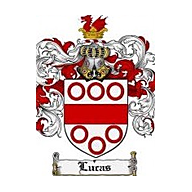
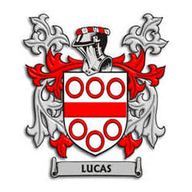
Lucas crest, added tests

diff --git a/tests/test-app.js b/tests/test-app.js
@@ -1,0 +1,216 @@
+// Logic tests for the Lucas Golf Day app. Runs the real index.html in a simulated
+// browser (jsdom) in demo mode, with the Firebase scripts and network stubbed out.
+//
+// Usage:  npm install && npm test            (tests ../index.html)
+//         node test-app.js path/to/index.html
+const { JSDOM } = require('jsdom');
+const fs = require('fs');
+const path = require('path');
+
+const file = path.resolve(process.argv[2] || path.join(__dirname, '..', 'index.html'));
+const html = fs.readFileSync(file, 'utf8').replace(/<script src="https:[^>]*><\/script>/g, '');
+
+let pass = 0, fail = 0;
+const check = (cond, msg) => { if (cond) { pass++; console.log('  PASS ' + msg); } else { fail++; console.log('  FAIL ' + msg); } };
+const section = (t) => console.log('\n' + t);
+
+function boot(me, opts) {
+  opts = opts || {};
+  const dom = new JSDOM(html, {
+    runScripts: 'dangerously', url: 'https://test.local/', pretendToBeVisual: true,
+    beforeParse(w) {
+      if (me) w.localStorage.setItem('golf.me', me);
+      if (opts.storage) Object.keys(opts.storage).forEach((k) => w.localStorage.setItem(k, opts.storage[k]));
+      w.fetch = () => (opts.wx ? Promise.resolve({ json: () => Promise.resolve(opts.wx) }) : new Promise(() => {}));
+    }
+  });
+  const w = dom.window, d = w.document;
+  const click = (sel) => { const e = d.querySelector(sel); if (!e) throw new Error('missing ' + sel); e.dispatchEvent(new w.MouseEvent('click', { bubbles: true })); };
+  const change = (sel) => { d.querySelector(sel).dispatchEvent(new w.Event('change', { bubbles: true })); };
+  const has = (sel) => !!d.querySelector(sel);
+  const text = (sel) => (d.querySelector(sel) ? d.querySelector(sel).textContent.replace(/\s+/g, ' ').trim() : '');
+  return { dom, w, d, click, change, has, text };
+}
+const wait = (ms) => new Promise((r) => setTimeout(r, ms));
+
+async function run() {
+  // ---------- 1. Start-up ----------
+  section('1. Start-up');
+  {
+    const a = boot('Jacob'); await wait(50);
+    check(a.text('h1') === 'Lucas Golf Day 2026', 'title is Lucas Golf Day 2026');
+    check(/Demo mode/.test(a.text('#statusText')), 'demo mode shown without Firebase config (' + a.text('#statusText') + ')');
+    check(a.d.querySelectorAll('.brow').length === 3, 'leaderboard lists 3 teams');
+    check(/Course.*To be confirmed/.test(a.text('.info')), 'course shows To be confirmed');
+    check(a.has('.dateline'), 'date line present');
+    const n = boot(null); await wait(50);
+    check(n.has('.scrim'), 'new visitor is asked to pick a name');
+  }
+
+  // ---------- 2. Weather ----------
+  section('2. Weather line');
+  {
+    const a = boot('Jacob', { wx: { current: { temperature_2m: 27.4, weather_code: 1, wind_speed_10m: 14.2 } } }); await wait(100);
+    const t = a.text('#wx');
+    check(/Perth WA/.test(t) && /27/.test(t) && /14 km\/h/.test(t) && /Partly cloudy/.test(t), 'shows Perth WA conditions: ' + t);
+    const b = boot('Jacob'); await wait(50);
+    check(/Perth WA weather loading/.test(b.text('#wx')), 'shows loading text while waiting: ' + b.text('#wx'));
+  }
+
+  // ---------- 3. Access control ----------
+  section('3. Access control');
+  {
+    const k = boot('Ken'); await wait(50);
+    check(k.d.querySelector('#btnSettings').classList.contains('hidden'), 'Setup button hidden for Ken');
+    k.d.querySelector('#btnSettings').dispatchEvent(new k.w.MouseEvent('click', { bubbles: true }));
+    check(!k.has('#fCourse'), 'Setup does not open for Ken');
+    const j = boot('Jacob'); await wait(50);
+    check(!j.d.querySelector('#btnSettings').classList.contains('hidden'), 'Setup button visible for Jacob');
+  }
+
+  // ---------- 4. Captain and read-only scorecards ----------
+  section('4. Captains and read-only cards');
+  {
+    const j = boot('Jacob'); await wait(50);
+    j.click('#tabCards');
+    j.click('[data-act=cardteam][data-team=A]');
+    check(j.d.querySelectorAll('tr.edit').length === 0, 'Jacob cannot edit Team A');
+    check(/View only/.test(j.text('.who-line')), 'Team A shows View only');
+    j.click('[data-act=cardteam][data-team=B]');
+    check(j.d.querySelectorAll('tr.edit').length === 9, 'Jacob can edit all 9 holes of Team B');
+    const k = boot('Ken'); await wait(50);
+    k.click('#tabCards'); k.click('[data-act=cardteam][data-team=C]');
+    check(k.d.querySelectorAll('tr.edit').length === 9, 'Ken can edit Team C');
+    k.click('[data-act=cardteam][data-team=B]');
+    check(k.d.querySelectorAll('tr.edit').length === 0, 'Ken cannot edit Team B');
+    const a = boot('Adam'); await wait(50);
+    a.click('#tabCards');
+    check(['A', 'B', 'C'].every((t) => { a.click('[data-act=cardteam][data-team=' + t + ']'); return a.d.querySelectorAll('tr.edit').length === 0; }), 'Adam is view only on every team');
+  }
+
+  // ---------- 5. Entering scores, tee choice, drives, mulligans ----------
+  section('5. Scoring');
+  {
+    const j = boot('Jacob'); await wait(50);
+    j.click('#tabCards'); j.click('[data-act=cardteam][data-team=B]');
+    j.click('tr[data-hole="1"]');
+    check(j.text('.sheet h2') === 'Team B, hole 1', 'hole editor opens for hole 1');
+    j.click('[data-act=sinc]'); j.click('[data-act=sinc]');
+    check(j.text('#sval') === '6', 'stepper moves par 4 up to 6');
+    j.click('[data-act=settee][data-v=b]');
+    j.click('[data-act=setdrive][data-name=Stu]');
+    j.click('[data-act=minc]'); j.click('[data-act=minc]');
+    check(j.text('#mval') === '2', 'two mulligans recorded');
+    j.click('[data-act=savehole]');
+    const row = j.d.querySelector('tr[data-hole="1"]');
+    check(/6/.test(row.querySelector('.sc').textContent), 'hole 1 score saved as 6');
+    check(/Back -1/.test(row.textContent) && /Stu/.test(row.textContent), 'tee choice and drive shown on the card');
+    check(/used on hole 1/.test(j.text('.tally')), 'tally shows tee choice used on hole 1');
+    check(/Stu 1\/3/.test(j.text('.tally')), 'tally shows Stu 1/3 drives');
+    check(/Mulligans left: 1 of 3/.test(j.text('.tally')), 'tally shows 1 of 3 mulligans left (' + j.text('.tally') + ')');
+
+    j.click('tr[data-hole="2"]');
+    check(j.d.querySelector('[data-act=settee][data-v=f]').disabled && j.d.querySelector('[data-act=settee][data-v=b]').disabled, 'tee choice locked on hole 2 after use');
+    check(!j.d.querySelector('[data-act=settee][data-v=w]').disabled, 'white tees still selectable');
+    j.click('[data-act=minc]');
+    check(j.text('#mval') === '1', 'one more mulligan allowed');
+    j.click('[data-act=minc]');
+    check(j.text('#mval') === '1', 'mulligans stop at the team limit');
+    j.click('[data-act=close]');
+
+    // Leaderboard: adjusted 5 vs par 4 = +1 gross; allowance 6 x 1/9 rounds to 1; net 0 = E
+    j.click('#tabBoard');
+    const b = j.d.querySelector('.brow[data-team=B]');
+    const nums = b.querySelectorAll('.num');
+    check(nums[0].textContent === 'E' && nums[1].textContent === '+1', 'leaderboard Team B net E, gross +1 (' + nums[0].textContent + ', ' + nums[1].textContent + ')');
+    check(b.querySelector('.thru').textContent === '1', 'thru shows 1');
+    check(j.d.querySelector('.brow').getAttribute('data-team') === 'B', 'Team B leads the board');
+
+    // Clear hole
+    j.click('#tabCards'); j.click('tr[data-hole="1"]'); j.click('[data-act=clearhole]');
+    check(!/6/.test(j.d.querySelector('tr[data-hole="1"] .sc').textContent), 'clearing a hole removes the score');
+  }
+
+  // ---------- 6. Setup: course, balance, overrides, validation ----------
+  section('6. Setup');
+  {
+    const j = boot('Jacob'); await wait(50);
+    j.click('#btnSettings');
+    check(j.has('#fCourse'), 'Setup opens for Jacob');
+    check(j.d.querySelectorAll('.prow:not(.phead)').length === 9, 'nine player rows');
+    check(/6 shots/.test(j.text('#tmAA')) && /6 shots/.test(j.text('#tmAB')) && /8 shots/.test(j.text('#tmAC')), 'automatic allowances are 6, 6 and 8');
+
+    j.d.querySelector('#fCourse').value = 'Test Golf Club';
+    ['A', 'B', 'C'].forEach((t, i) => { j.d.querySelector('#fTee' + t).value = (8 + i) + ':00 am'; });
+    [4, 4, 3, 5, 4, 4, 3, 4, 5].forEach((p, i) => { j.d.querySelector('#fPar' + i).value = String(p); });
+
+    // Balance from an unfair split, nothing locked
+    const hs = [6, 15, 25, 25, 30, 54, 54, 54, 25];
+    const tm = ['A', 'A', 'A', 'B', 'B', 'B', 'C', 'C', 'C'];
+    for (let i = 0; i < 9; i++) { j.d.querySelector('#pH' + i).value = String(hs[i]); j.d.querySelector('#pT' + i).value = tm[i]; j.d.querySelector('#pL' + i).checked = false; }
+    j.change('#pT0');
+    const rangeOf = () => { const v = ['A', 'B', 'C'].map((t) => parseInt((j.text('#tmA' + t).match(/(\d+) shots/) || [0, 0])[1], 10)); return Math.max.apply(null, v) - Math.min.apply(null, v); };
+    const before = rangeOf();
+    j.click('[data-act=balance]');
+    const after = rangeOf();
+    const sizes = { A: 0, B: 0, C: 0 };
+    for (let i = 0; i < 9; i++) sizes[j.d.querySelector('#pT' + i).value]++;
+    check(sizes.A === 3 && sizes.B === 3 && sizes.C === 3, 'balance gives 3 players per team');
+    check(after < before, 'balance narrows the allowance gap (' + before + ' shots to ' + after + ')');
+
+    // Lock Matt+Lachie and Stu+Jett back to the real line-up, then balance
+    const names = ['Michael', 'Matt', 'Lachie', 'Jacob', 'Stu', 'Jett', 'Ken', 'Adam', 'Ron'];
+    const real = [6, 30, 54, 15, 25, 54, 25, 25, 54], realT = ['A', 'A', 'A', 'B', 'B', 'B', 'C', 'C', 'C'];
+    for (let i = 0; i < 9; i++) { j.d.querySelector('#pN' + i).value = names[i]; j.d.querySelector('#pH' + i).value = String(real[i]); j.d.querySelector('#pT' + i).value = realT[i]; j.d.querySelector('#pL' + i).checked = false; }
+    ['Matt', 'Lachie', 'Stu', 'Jett'].forEach((n) => { j.d.querySelector('#pL' + names.indexOf(n)).checked = true; });
+    j.change('#pT0');
+    j.d.querySelector('#pT' + names.indexOf('Michael')).value = 'C';  // push Michael away from his pair, balance should handle it
+    j.click('[data-act=balance]');
+    const tOf = (n) => j.d.querySelector('#pT' + names.indexOf(n)).value;
+    check(tOf('Matt') === tOf('Lachie'), 'locked pair Matt and Lachie stay together');
+    check(tOf('Stu') === tOf('Jett'), 'locked pair Stu and Jett stay together');
+
+    // Manual override and save
+    j.d.querySelector('#fAllowC').value = '10'; j.change('#fAllowC');
+    j.click('[data-act=savesetup]');
+    check(!j.has('#fCourse'), 'valid setup saves and closes');
+    check(/Test Golf Club/.test(j.text('.info')) && /8:00 am/.test(j.text('.info')), 'details card shows saved course and tee times');
+    j.click('[data-act=rules]');
+    check(/C: 10/.test(j.text('.rules')), 'rules show overridden Team C allowance of 10');
+    j.click('[data-act=close]');
+
+    // Validation
+    j.click('#btnSettings');
+    j.d.querySelector('#pT0').value = 'B'; j.change('#pT0');
+    j.click('[data-act=savesetup]');
+    check(j.has('#fCourse') && /exactly 3/.test(j.text('#toast')), 'save blocked when a team has the wrong size');
+    j.click('[data-act=close]');
+    j.click('#btnSettings');
+    j.d.querySelector('#pN3').value = 'Someone'; j.d.querySelector('#pN3').dispatchEvent(new j.w.Event('change', { bubbles: true }));
+    const jacobRow = names.indexOf('Jacob');
+    j.d.querySelector('#pN' + jacobRow).value = 'Jake';
+    j.click('[data-act=savesetup]');
+    check(j.has('#fCourse') && /Keep Jacob/.test(j.text('#toast')), 'cannot remove Jacob from the player list (' + j.text('#toast') + ')');
+    j.click('[data-act=close]');
+    j.click('#btnSettings');
+    j.d.querySelector('#pH1').value = '99';
+    j.click('[data-act=savesetup]');
+    check(j.has('#fCourse') && /0 to 54/.test(j.text('#toast')), 'handicap above 54 is rejected');
+  }
+
+  // ---------- 7. Rules sheet ----------
+  section('7. Rules sheet');
+  {
+    const a = boot('Adam'); await wait(50);
+    a.click('[data-act=rules]');
+    const r = a.text('.rules');
+    check(/Lachie and Jett get 3 free do-overs each/.test(r), 'mulligan rule names Lachie and Jett');
+    check(/A: 6, B: 6, C: 8/.test(r), 'allowances listed as A: 6, B: 6, C: 8');
+    check(/white tees/i.test(r) && /Tiebreaker/.test(r), 'tees and tiebreaker rules present');
+    check(!/side prize/i.test(r), 'no side prizes');
+  }
+
+  console.log('\n' + pass + ' passed, ' + fail + ' failed');
+  process.exit(fail ? 1 : 0);
+}
+run().catch((e) => { console.error('Test run crashed:', e); process.exit(2); });

diff --git a/index.html b/index.html
@@ -9,6 +9,10 @@
 <meta name="apple-mobile-web-app-title" content="Lucas Golf Day">
 <meta name="apple-mobile-web-app-status-bar-style" content="black-translucent">
 <link rel="manifest" href="manifest.webmanifest">
+<link rel="icon" type="image/png" sizes="32x32" href="favicon-32.png">
+<link rel="icon" type="image/png" sizes="48x48" href="favicon-48.png">
+<link rel="icon" type="image/png" sizes="192x192" href="icon-192.png">
+<link rel="icon" type="image/png" sizes="512x512" href="icon-512.png">
 <link rel="apple-touch-icon" href="icon-192.png">
 <title>Lucas Golf Day 2026</title>
 <style>
@@ -29,7 +33,9 @@ button{font:inherit;color:inherit;cursor:pointer}
 
 /* Header */
 header{background:var(--board);color:#fff;padding:12px 16px 12px;position:sticky;top:0;z-index:5;border-bottom:4px solid var(--gold)}
-.hrow{display:flex;align-items:center;gap:8px}
+.hrow{display:flex;align-items:center;gap:12px}
+.crest{width:56px;height:56px;flex:none;object-fit:contain;background:#fff;border-radius:12px;padding:3px;border:2px solid var(--gold);box-shadow:0 2px 6px rgba(0,0,0,.35)}
+@media (max-width:400px){.crest{width:48px;height:48px}.title h1{font-size:23px}}
 .title{flex:1;min-width:0}
 .title h1{margin:0;font:italic 400 27px/1.1 var(--serif);letter-spacing:.3px}
 .dateline{margin:8px 0 0;font-size:14px;color:#f7e7a0;display:flex;flex-wrap:wrap;gap:2px 14px}
@@ -161,6 +167,7 @@ input[type=text],select,input[type=number]{width:100%;padding:11px;border:1px so
 
 <header>
   <div class="hrow">
+    <img class="crest" src="icon-192.png" alt="Lucas family crest" width="56" height="56">
     <div class="title">
       <h1>Lucas Golf Day 2026</h1>
     </div>
@@ -199,12 +206,10 @@ input[type=text],select,input[type=number]{width:100%;padding:11px;border:1px so
 // Paste your Firebase web app config here (see README). Until then the app
 // runs in demo mode and keeps data on this device only.
 const FIREBASE_CONFIG = {
-  apiKey: "AIzaSyD4jI45tVLFn71t9YlkdlfijX40HRFV13U",
-  authDomain: "lucas-golf-day.firebaseapp.com",
-  projectId: "lucas-golf-day",
-  storageBucket: "lucas-golf-day.firebasestorage.app",
-  messagingSenderId: "476398886062",
-  appId: "1:476398886062:web:9eb3ebbdc658238c35e13f"
+  apiKey: "YOUR_API_KEY",
+  authDomain: "YOUR_PROJECT_ID.firebaseapp.com",
+  projectId: "YOUR_PROJECT_ID",
+  appId: "YOUR_APP_ID"
 };
 const ROUND_DOC = "rounds/dec28";
 

diff --git a/sw.js b/sw.js
@@ -1,5 +1,5 @@
 // Bump CACHE when you change any app file so phones pick up the update.
-const CACHE = 'golf-day-v10';
+const CACHE = 'golf-day-v12';
 const SHELL = ['./', './index.html', './manifest.webmanifest', './icon-192.png', './icon-512.png', './icon-maskable-512.png'];
 
 self.addEventListener('install', (e) => {

diff --git a/tests/LIVE-TEST-PLAN.md b/tests/LIVE-TEST-PLAN.md
@@ -1,0 +1,34 @@
+# Lucas Golf Day: live test plan
+
+Site: https://jacob-lucas.github.io/lucas-golf-day/
+
+Run this on two phones, or one phone and a laptop. Before the day, clear test scores by deleting the `dec28` document in the `rounds` collection in the Firebase console, then re-enter the course in Setup.
+
+## A. Deployment
+1. Open the site. The pill under the title says **Live** (not Demo mode).
+2. The weather line shows Perth WA with temperature and wind.
+3. Add to Home Screen. The crest icon appears and the app opens full screen.
+
+## B. Setup (Jacob only)
+4. Pick **Jacob**. A Setup button appears. Pick **Adam** on the other device: no Setup button.
+5. In Setup enter course name, tee times and pars. Save.
+6. The other device shows the course and tee times within a few seconds.
+7. Setup: press **Balance teams**, check each team has 3 players. Lock a pair, balance again, check the pair stays together. Cancel without saving.
+8. Setup: type an allowance override for one team, save, and check it appears in the Rules.
+
+## C. Scoring
+9. As each captain (Michael for A, Jacob for B, Ken for C), score hole 1 on their own team. Other devices update.
+10. As a non-captain, open that team's card: it says View only and holes cannot be edited.
+11. Use the tee choice once. On the next hole the forward and back options are disabled.
+12. Record drives. The drive count chips update.
+13. Record mulligans for Lachie or Jett. The count stops at the limit.
+14. The leaderboard order, net, gross and thru columns match the cards.
+15. Clear a hole. The score disappears everywhere.
+
+## D. Offline
+16. Put one device in airplane mode. Score a hole as captain. The pill says Offline.
+17. Turn signal back on. The pill returns to Live and the other device gets the score.
+
+## E. Finish
+18. Score all 9 holes for one team. Thru shows F, and the card shows the final net.
+19. Delete the test data (see top), reopen the app, and confirm the leaderboard is empty.

diff --git a/README.md b/README.md
@@ -94,3 +94,8 @@ Each person picks their name the first time they open the app (tap "You: name" a
 1. Do a test round with two or three phones: score a hole as a captain, and check it appears on the other phones.
 2. Switch one phone to airplane mode, score a hole, then switch it back and confirm it syncs.
 3. Once you book the course, enter the pars in Setup.
+
+## Testing
+
+- `tests/test-app.js` runs 50 automatic checks on the app logic (scoring, captains, Setup, balance, rules). From the `tests` folder run `npm install` then `npm test`. It needs Node.js.
+- `tests/LIVE-TEST-PLAN.md` is a step by step checklist for testing the hosted app on real phones.
